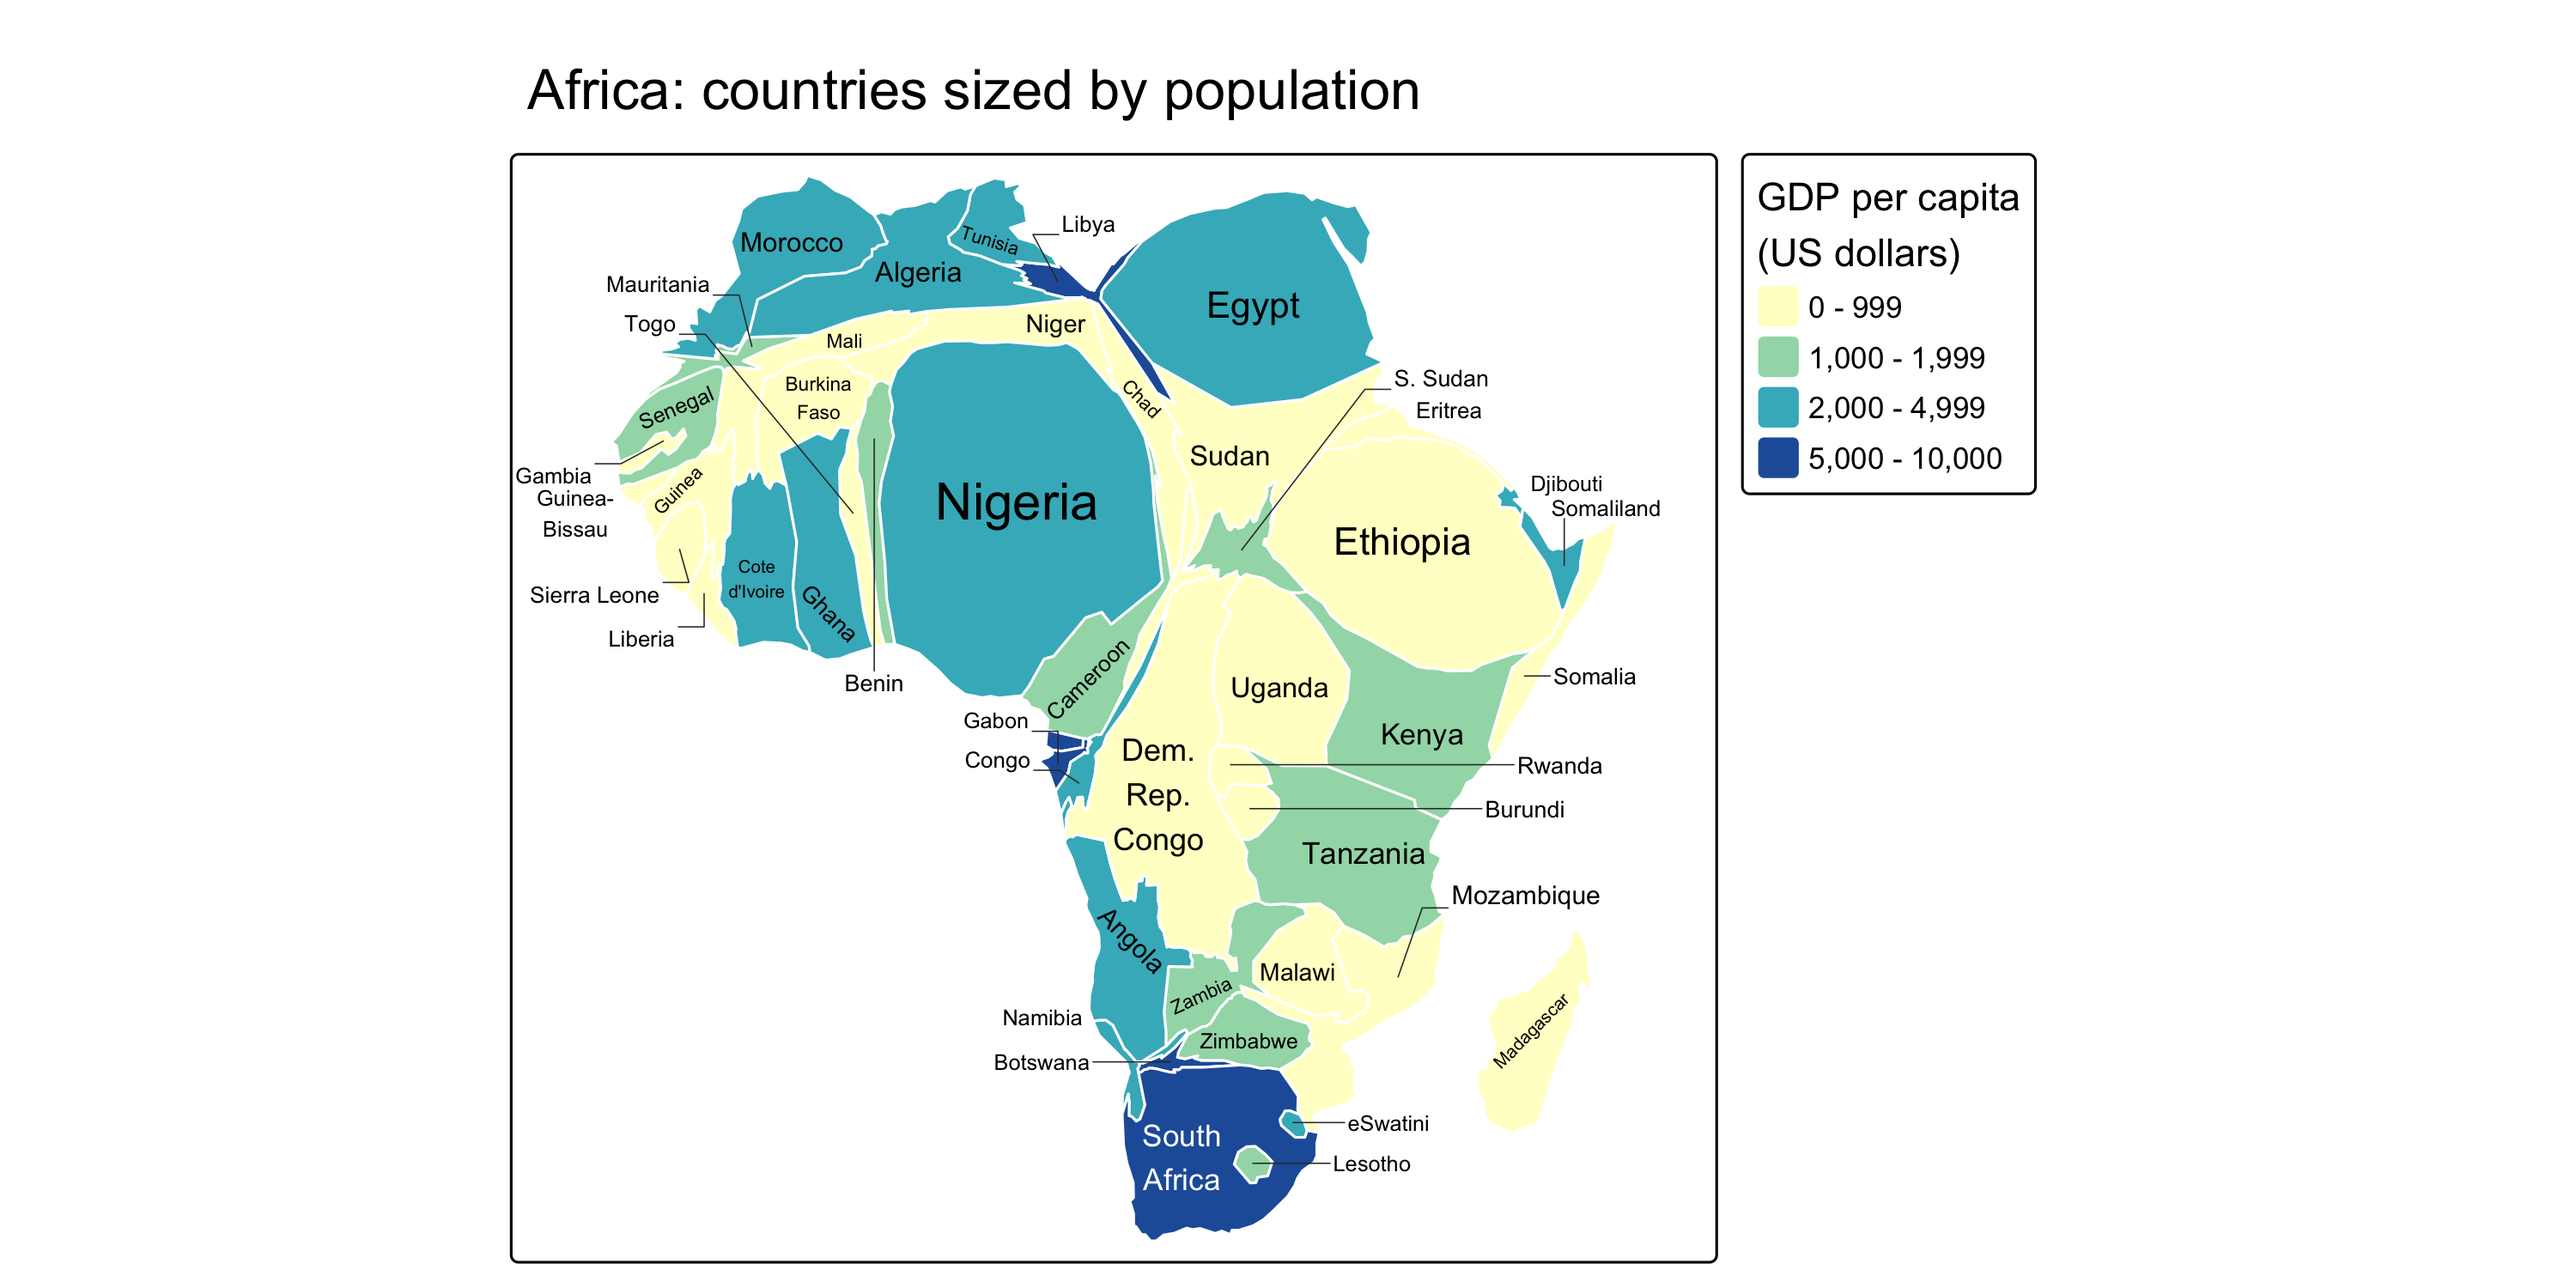
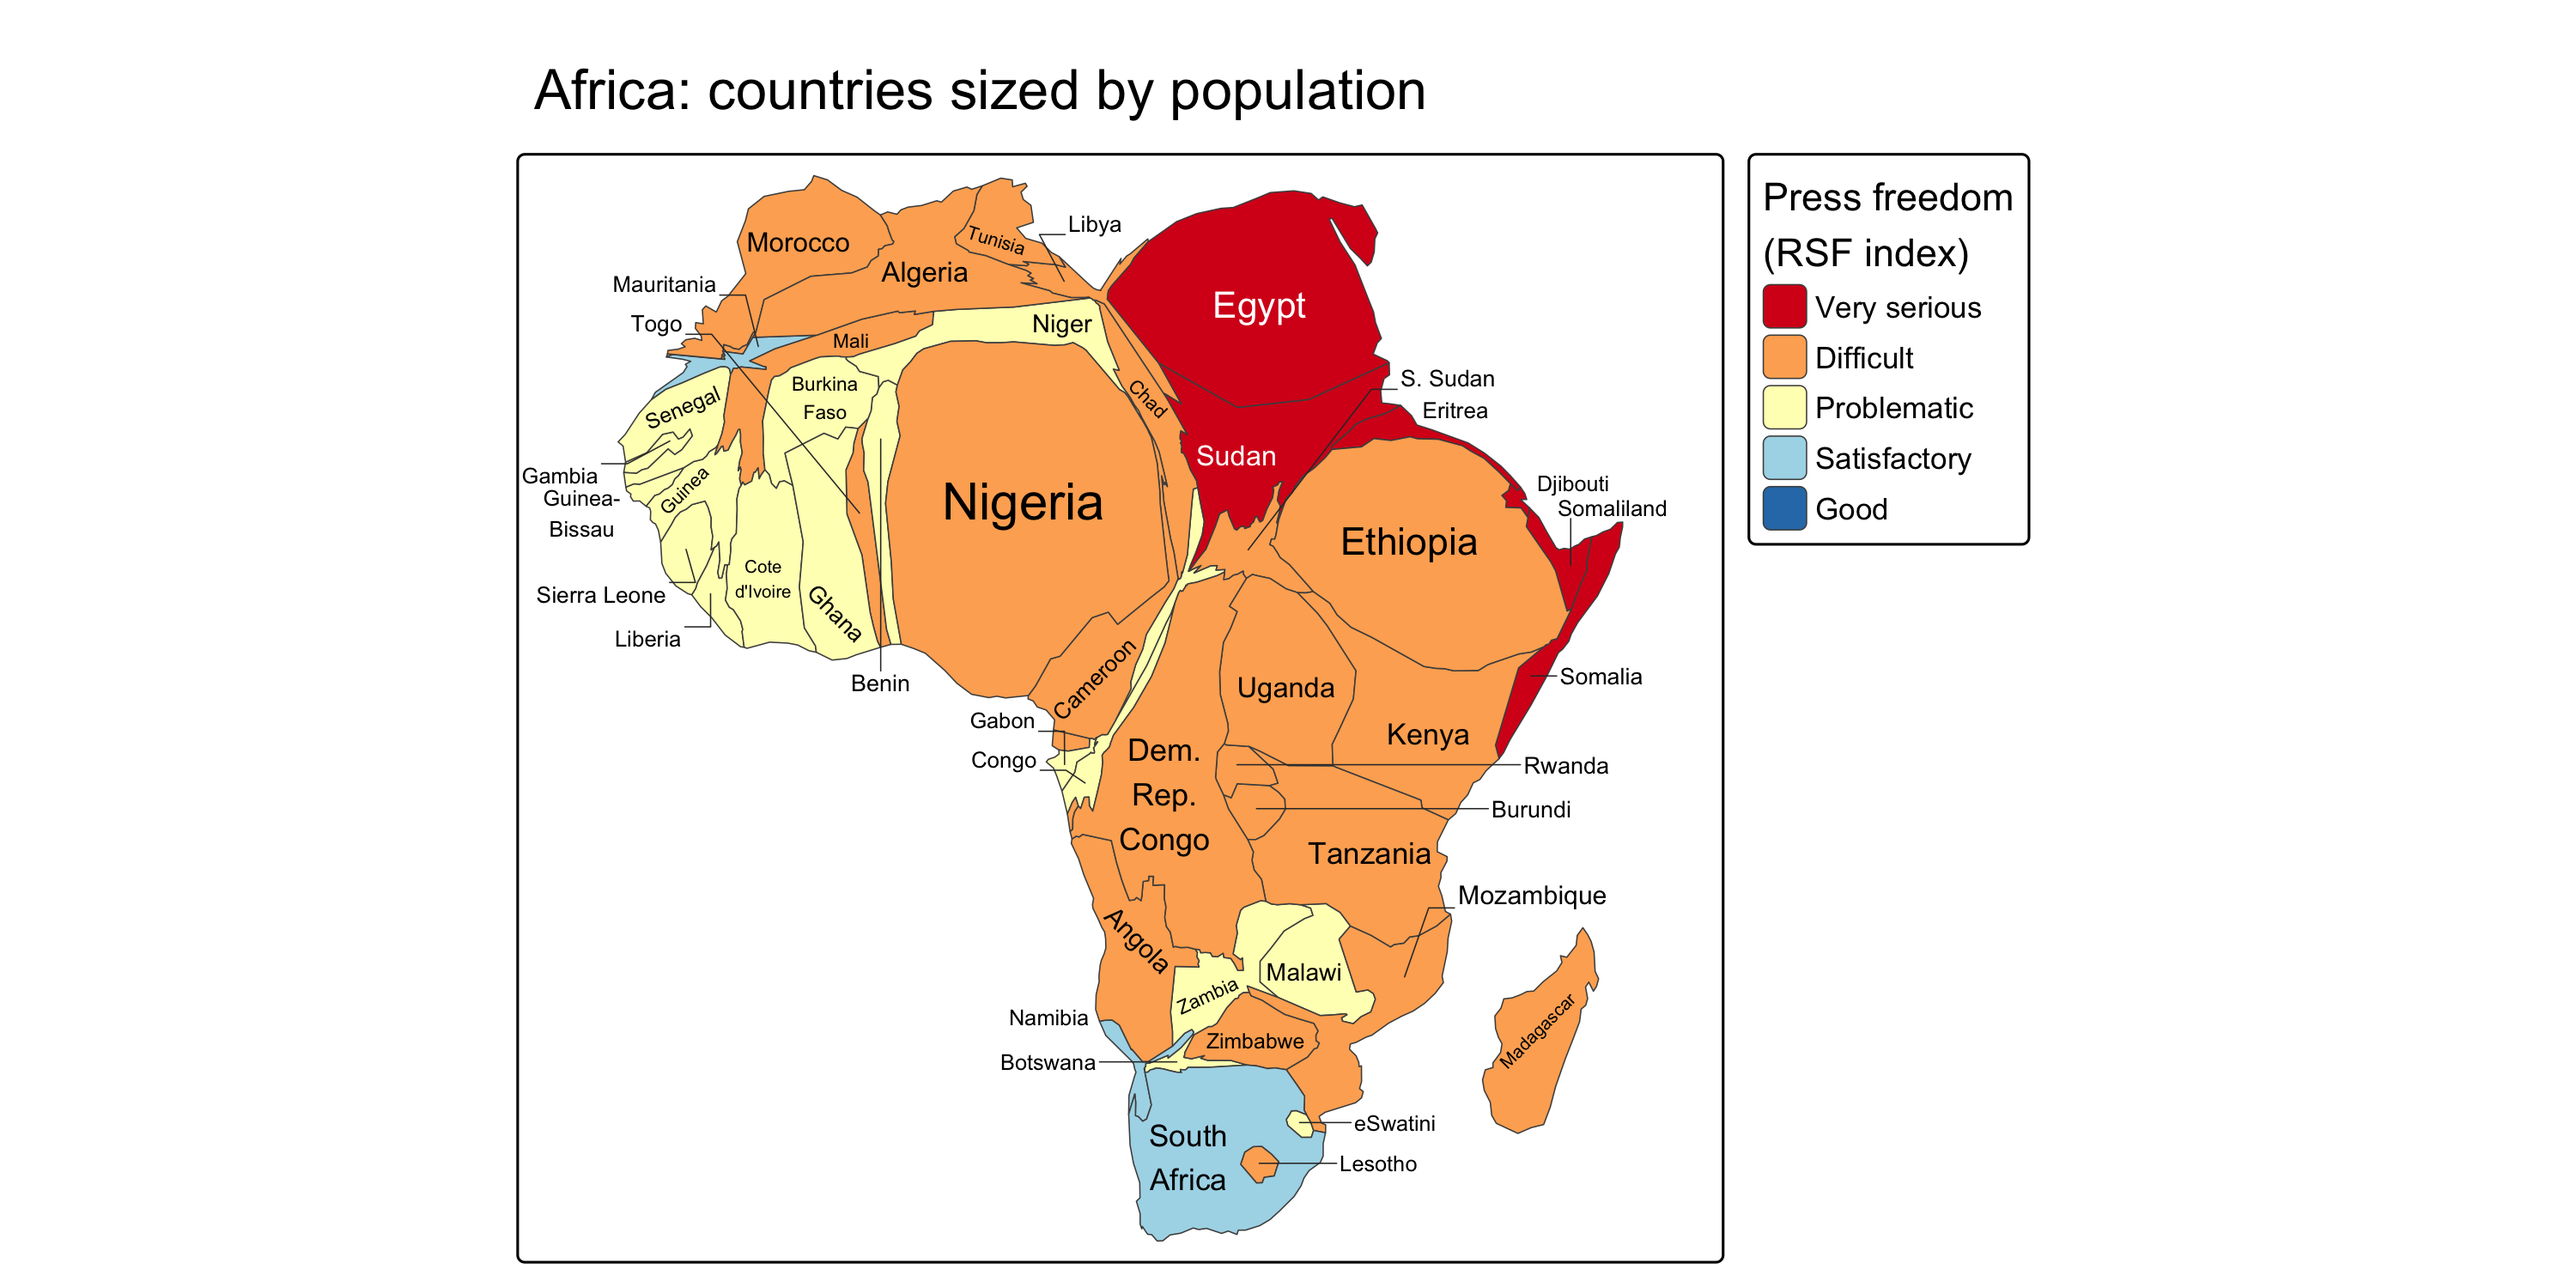
...

Changed region(s): [[0.186, 0.1227, 0.806, 0.9813], [0.186, 0.0613, 0.558, 0.092]]

diff --git a/tutorial.html b/tutorial.html
@@ -746,23 +746,24 @@ Martijn Tennekes
 <span id="cb21-3"><a href="" aria-hidden="true" tabindex="-1"></a><span class="fu">tm_shape</span>(Africa, <span class="at">crs =</span> <span class="st">"+proj=aea +lat_1=20 +lat_2=-23 +lon_0=25"</span>) <span class="sc">+</span>  <span class="co"># equal-area</span></span>
 <span id="cb21-4"><a href="" aria-hidden="true" tabindex="-1"></a>  <span class="fu">tm_cartogram</span>(</span>
 <span id="cb21-5"><a href="" aria-hidden="true" tabindex="-1"></a>    <span class="at">size =</span> <span class="st">"pop_est"</span>,</span>
-<span id="cb21-6"><a href="" aria-hidden="true" tabindex="-1"></a>    <span class="at">fill =</span> <span class="st">"gdp_cap_est"</span>,</span>
-<span id="cb21-7"><a href="" aria-hidden="true" tabindex="-1"></a>    <span class="at">fill.scale =</span> <span class="fu">tm_scale_intervals</span>(<span class="at">breaks =</span> <span class="fu">c</span>(<span class="dv">0</span>, <span class="dv">1000</span>, <span class="dv">2000</span>, <span class="dv">5000</span>, <span class="dv">10000</span>),</span>
-<span id="cb21-8"><a href="" aria-hidden="true" tabindex="-1"></a>                                    <span class="at">values =</span> <span class="st">"brewer.yl_gn_bu"</span>),</span>
-<span id="cb21-9"><a href="" aria-hidden="true" tabindex="-1"></a>    <span class="at">fill.legend =</span> <span class="fu">tm_legend</span>(<span class="st">"GDP per capita</span><span class="sc">\n</span><span class="st">(US dollars)"</span>),</span>
-<span id="cb21-10"><a href="" aria-hidden="true" tabindex="-1"></a>    <span class="at">col =</span> <span class="st">"white"</span>) <span class="sc">+</span></span>
-<span id="cb21-11"><a href="" aria-hidden="true" tabindex="-1"></a>  <span class="fu">tm_labels</span>(<span class="st">"name"</span>,</span>
-<span id="cb21-12"><a href="" aria-hidden="true" tabindex="-1"></a>    <span class="at">size =</span> <span class="st">"pop_est"</span>,                                  <span class="co"># label size by population</span></span>
-<span id="cb21-13"><a href="" aria-hidden="true" tabindex="-1"></a>    <span class="at">size.scale =</span> <span class="fu">tm_scale_continuous</span>(<span class="at">values =</span> <span class="fu">c</span>(<span class="fl">0.5</span>, <span class="fl">1.2</span>)),</span>
-<span id="cb21-14"><a href="" aria-hidden="true" tabindex="-1"></a>    <span class="at">size.legend =</span> <span class="fu">tm_legend_hide</span>(),</span>
-<span id="cb21-15"><a href="" aria-hidden="true" tabindex="-1"></a>    <span class="at">col =</span> <span class="st">"auto"</span>,                                      <span class="co"># black or white, by fill</span></span>
-<span id="cb21-16"><a href="" aria-hidden="true" tabindex="-1"></a>    <span class="at">options =</span> <span class="fu">opt_tm_labels</span>(</span>
-<span id="cb21-17"><a href="" aria-hidden="true" tabindex="-1"></a>      <span class="at">placement =</span> <span class="fu">tm_placement</span>(                        <span class="co"># labels that don't fit:</span></span>
-<span id="cb21-18"><a href="" aria-hidden="true" tabindex="-1"></a>        <span class="at">fallback =</span> <span class="fu">c</span>(<span class="st">"wrap"</span>, <span class="st">"rotate"</span>, <span class="st">"shrink"</span>, <span class="st">"move"</span>, <span class="st">"drop"</span>),</span>
-<span id="cb21-19"><a href="" aria-hidden="true" tabindex="-1"></a>        <span class="at">move.max =</span> <span class="fl">0.5</span>),                               <span class="co"># move at most 50% outside</span></span>
-<span id="cb21-20"><a href="" aria-hidden="true" tabindex="-1"></a>      <span class="at">leader =</span> <span class="fu">tm_leader</span>(<span class="at">col =</span> <span class="st">"gray20"</span>, <span class="at">lwd =</span> <span class="fl">0.5</span>, <span class="at">type =</span> <span class="st">"elbow"</span>))) <span class="sc">+</span></span>
-<span id="cb21-21"><a href="" aria-hidden="true" tabindex="-1"></a><span class="fu">tm_title</span>(<span class="st">"Africa: countries sized by population"</span>) <span class="sc">+</span></span>
-<span id="cb21-22"><a href="" aria-hidden="true" tabindex="-1"></a><span class="fu">tm_layout</span>(<span class="at">inner.margins =</span> <span class="fu">c</span>(<span class="fl">0.02</span>, <span class="fl">0.1</span>, <span class="fl">0.02</span>, <span class="fl">0.1</span>))     <span class="co"># room for moved labels</span></span></code><button title="Copy to Clipboard" class="code-copy-button"><i class="bi"></i></button></pre></div>
+<span id="cb21-6"><a href="" aria-hidden="true" tabindex="-1"></a>    <span class="at">fill =</span> <span class="st">"press"</span>,</span>
+<span id="cb21-7"><a href="" aria-hidden="true" tabindex="-1"></a>    <span class="at">fill.scale =</span> <span class="fu">tm_scale_intervals</span>(<span class="at">breaks =</span> <span class="fu">c</span>(<span class="dv">0</span>, <span class="dv">40</span>, <span class="dv">55</span>, <span class="dv">70</span>, <span class="dv">85</span>, <span class="dv">100</span>),</span>
+<span id="cb21-8"><a href="" aria-hidden="true" tabindex="-1"></a>      <span class="at">labels =</span> <span class="fu">c</span>(<span class="st">"Very serious"</span>, <span class="st">"Difficult"</span>, <span class="st">"Problematic"</span>, <span class="st">"Satisfactory"</span>, <span class="st">"Good"</span>),</span>
+<span id="cb21-9"><a href="" aria-hidden="true" tabindex="-1"></a>      <span class="at">values =</span> <span class="st">"brewer.rd_yl_bu"</span>),</span>
+<span id="cb21-10"><a href="" aria-hidden="true" tabindex="-1"></a>    <span class="at">fill.legend =</span> <span class="fu">tm_legend</span>(<span class="st">"Press freedom</span><span class="sc">\n</span><span class="st">(RSF index)"</span>),</span>
+<span id="cb21-11"><a href="" aria-hidden="true" tabindex="-1"></a>    <span class="at">col =</span> <span class="st">"grey30"</span>, <span class="at">lwd =</span> <span class="fl">0.5</span>) <span class="sc">+</span></span>
+<span id="cb21-12"><a href="" aria-hidden="true" tabindex="-1"></a>  <span class="fu">tm_labels</span>(<span class="st">"name"</span>,</span>
+<span id="cb21-13"><a href="" aria-hidden="true" tabindex="-1"></a>    <span class="at">size =</span> <span class="st">"pop_est"</span>,                                  <span class="co"># label size by population</span></span>
+<span id="cb21-14"><a href="" aria-hidden="true" tabindex="-1"></a>    <span class="at">size.scale =</span> <span class="fu">tm_scale_continuous</span>(<span class="at">values =</span> <span class="fu">c</span>(<span class="fl">0.5</span>, <span class="fl">1.2</span>)),</span>
+<span id="cb21-15"><a href="" aria-hidden="true" tabindex="-1"></a>    <span class="at">size.legend =</span> <span class="fu">tm_legend_hide</span>(),</span>
+<span id="cb21-16"><a href="" aria-hidden="true" tabindex="-1"></a>    <span class="at">col =</span> <span class="st">"auto"</span>,                                      <span class="co"># black or white, by fill</span></span>
+<span id="cb21-17"><a href="" aria-hidden="true" tabindex="-1"></a>    <span class="at">options =</span> <span class="fu">opt_tm_labels</span>(</span>
+<span id="cb21-18"><a href="" aria-hidden="true" tabindex="-1"></a>      <span class="at">placement =</span> <span class="fu">tm_placement</span>(                        <span class="co"># labels that don't fit:</span></span>
+<span id="cb21-19"><a href="" aria-hidden="true" tabindex="-1"></a>        <span class="at">fallback =</span> <span class="fu">c</span>(<span class="st">"wrap"</span>, <span class="st">"rotate"</span>, <span class="st">"shrink"</span>, <span class="st">"move"</span>, <span class="st">"drop"</span>),</span>
+<span id="cb21-20"><a href="" aria-hidden="true" tabindex="-1"></a>        <span class="at">move.max =</span> <span class="fl">0.5</span>),                               <span class="co"># move at most 50% outside</span></span>
+<span id="cb21-21"><a href="" aria-hidden="true" tabindex="-1"></a>      <span class="at">leader =</span> <span class="fu">tm_leader</span>(<span class="at">col =</span> <span class="st">"gray20"</span>, <span class="at">lwd =</span> <span class="fl">0.5</span>, <span class="at">type =</span> <span class="st">"elbow"</span>))) <span class="sc">+</span></span>
+<span id="cb21-22"><a href="" aria-hidden="true" tabindex="-1"></a><span class="fu">tm_title</span>(<span class="st">"Africa: countries sized by population"</span>) <span class="sc">+</span></span>
+<span id="cb21-23"><a href="" aria-hidden="true" tabindex="-1"></a><span class="fu">tm_layout</span>(<span class="at">inner.margins =</span> <span class="fu">c</span>(<span class="fl">0.02</span>, <span class="fl">0.1</span>, <span class="fl">0.02</span>, <span class="fl">0.1</span>))     <span class="co"># room for moved labels</span></span></code><button title="Copy to Clipboard" class="code-copy-button"><i class="bi"></i></button></pre></div>
 </div>
 
 <p>Also <code>tm_cartogram_ncont()</code> (non-contiguous) and <code>tm_cartogram_dorling()</code> (circles). Use an equal-area CRS.</p>
